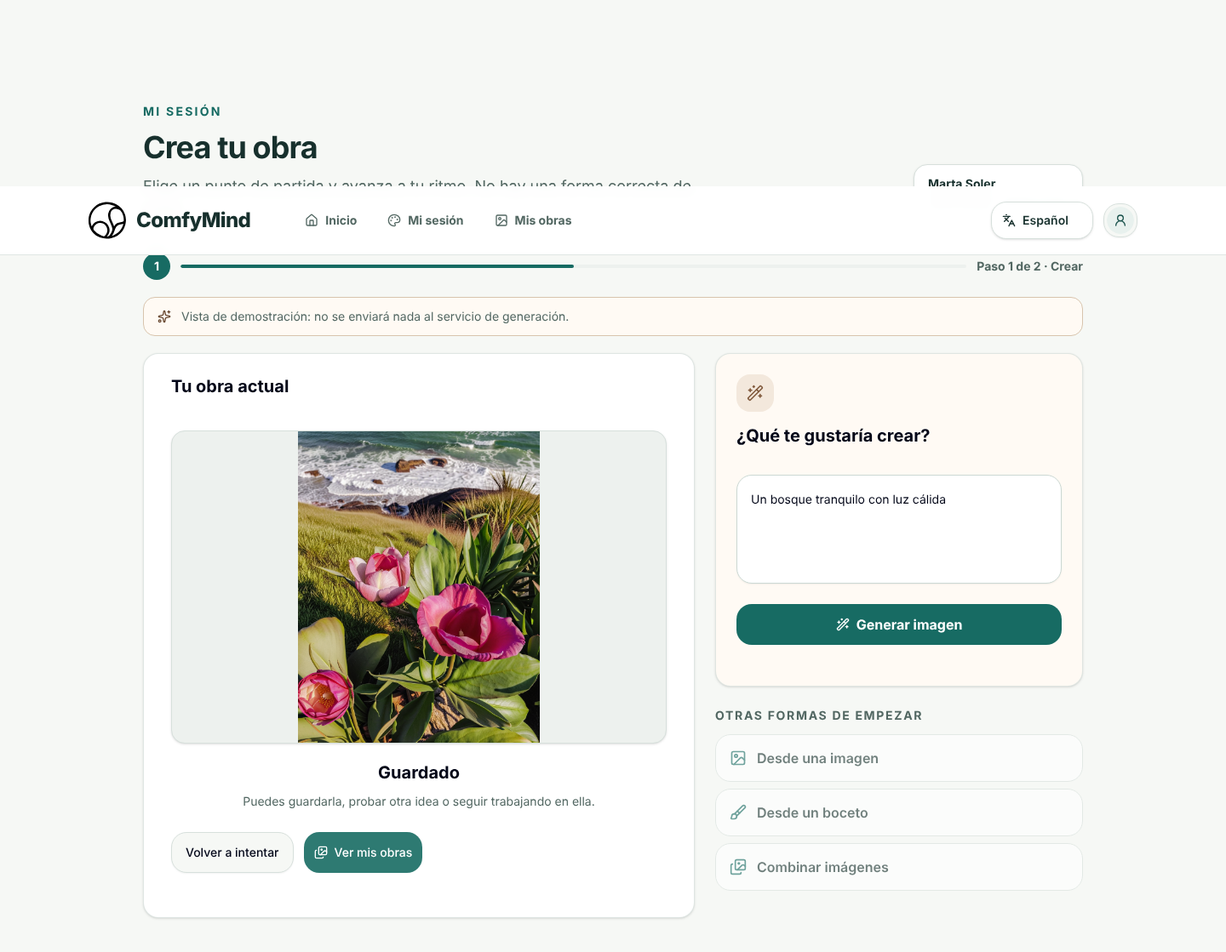
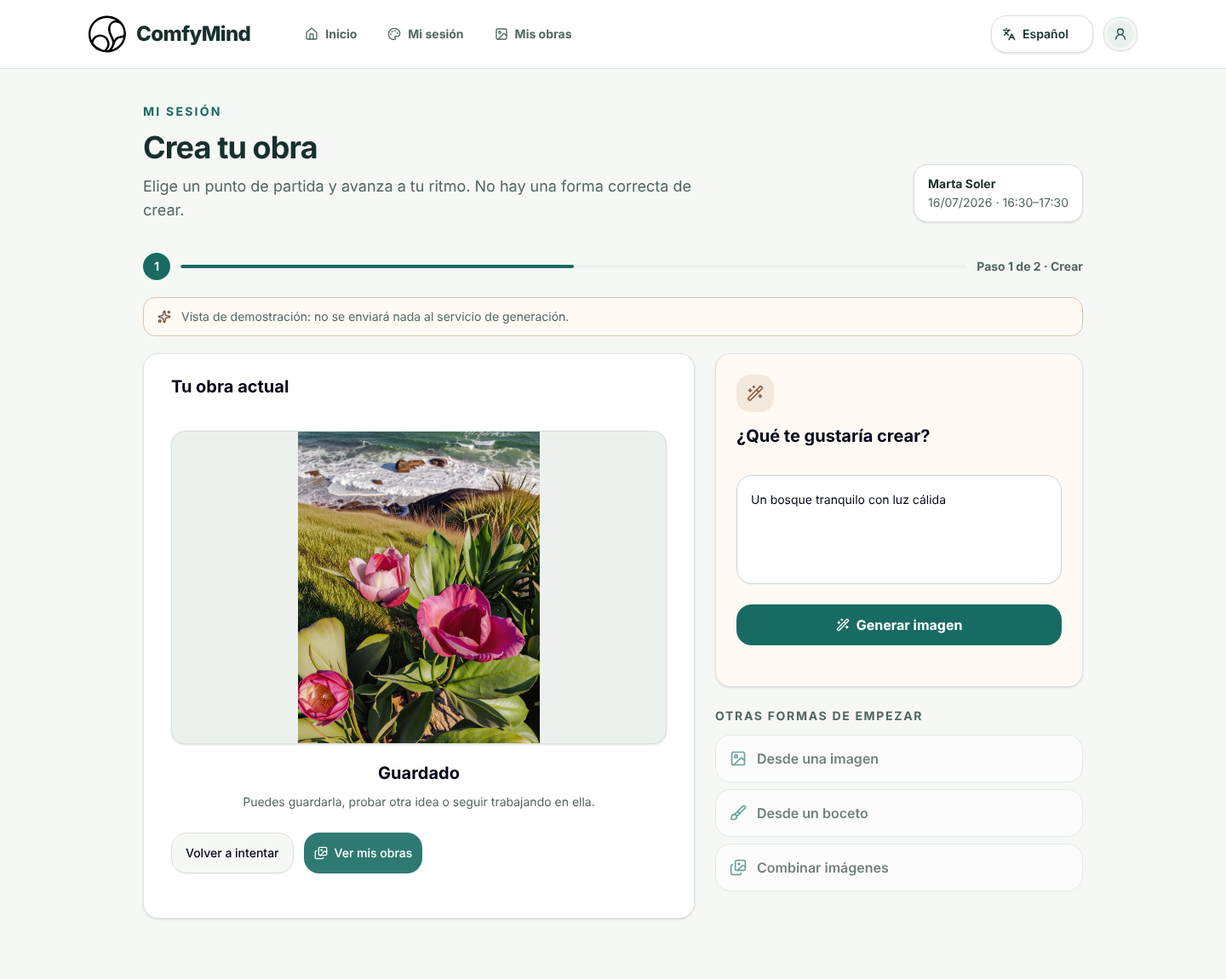
docs: add current UI audit and screenshots (W3)
Claude-Session: https://claude.ai/code/session_01Kk9Ps64XG2jxb5VeaSqfrE

diff --git a/docs/redesign/03_CURRENT_UI_AUDIT.md b/docs/redesign/03_CURRENT_UI_AUDIT.md
@@ -1,0 +1,299 @@
+# 03 - Current UI Audit
+
+Worker W3, 2026-11-24. Scope: every reachable screen of the frontend on the clean base branch, captured without a backend, and critiqued against `AGENTS.md`, `DESIGN_SYSTEM_BRIEF_DRAFT.md`, `ACCESSIBILITY_REQUIREMENTS_DRAFT.md` and `WELCOME_SCREEN_VISUAL_ART_DIRECTION.md`. No source was modified. 63 screenshots (8 MB) live in `screens/current/`.
+
+## 0. How the screens were captured
+
+| Item | Detail |
+|---|---|
+| Server | `VITE_DEV_PREVIEW_MODE=true npx vite --port 5199`, Chromium via Playwright, DPR 1, 1440x900 (D) and 1024x768 (T); a few at 390x844 (M). Locale forced through `localStorage['comfymind.prototype.locale']`. |
+| `?demo=1` | **Works, no mock needed.** `usePrototypeDemo` hard-codes a *patient* ("Alex") + therapist "Marta Soler" in `HomeView`, `Header`, `SessionView`, `ProfileDropdown`, and swaps `GenerationView` for `DemoCreationWorkspace`. It only covers Home, Generation (`/generation/`) and Gallery (`/freeimages/`). Login and Welcome just carry the flag along. Login still enforces email + 8-char password validation. |
+| `VITE_DEV_PREVIEW_MODE` | **Works for all other screens, but the mock identity is always a therapist.** `mockCurrentUser.type = 'therapist'` (id 1001). `getActiveSession()` returns `null`, gallery is `{data: []}`, template images are two non-existent names. Result: therapist screens work; patient routes (`/session/:id/patient`, `/canvas/`) show the "Acceso denegado" dialog (`48-...`). |
+| Harness for the real patient screens | To see the *real* (non-demo) `GenerationView`, `CanvasView`, modals and `SessionView` as a patient, the screenshot script intercepted the Vite-served modules `devPreviewMocks.js`, `sessionsService.js` and `comfyService.js` in the browser (Playwright `route`) and swapped in a patient user, an active session and six template images (served from `src/assets/images/template_images`). Source on disk is untouched. This is a capture aid only; **it shows that today the hosted demo cannot show the patient creation flow with `VITE_DEV_PREVIEW_MODE` alone.** Screens marked (patched) below were captured this way. |
+| Not capturable | Real image generation, WebSocket chat messages, "final view" after "Confirmar la obra creada" (needs a generated image), session-expired global dialog. The refine modal's Generate button does nothing visible in preview (mock returns a filename pointing at the missing backend). |
+
+Notes on the files: PNGs over ~400 KB were converted to `.jpg` (q80), so some links end in `.jpg`. Dark overlays in modal shots are the real Reka/shadcn overlay (`bg-black/50`-style), not a capture artefact.
+
+### Key discovery: the app is two products stitched together
+
+The "current UI" is a hybrid. Four screens (Welcome, Login, Patient Home, `DemoCreationWorkspace`/demo gallery, plus the Header) have already been re-skinned by the earlier prototype pass with the teal/cream tokens, `prototype-*` classes, 11-12 px-radius cards and three-language strings. **Everything behind them is the old app**: Signup, the real `GenerationView` (1578 lines), `CanvasView`, all modals, `CalendarView`, `TherapistGenerationView`, `CreateSessionModal`, `ChatPanel`, and the Spanish-only literals inside them. The two halves differ in palette, type scale, spacing, radii and tone, and the old half is not translated (CA/EN toggle changes only the redesigned screens).
+
+---
+
+## 1. Screen-by-screen
+
+Legend: D = 1440, T = 1024, M = 390. All paths relative to `screens/current/`.
+
+### 1.1 Entry screens
+
+| Screen | Screenshots | Purpose | What works | Problems |
+|---|---|---|---|---|
+| **Landing / Welcome** (`/`, `WelcomeView.vue`) | [D](screens/current/01-landing-es-desktop.jpg) [T](screens/current/01-landing-es-tablet.jpg) [M](screens/current/04-landing-es-mobile.png) [CA](screens/current/02-landing-ca-desktop.jpg) [EN](screens/current/02-landing-en-desktop.jpg) [focus](screens/current/03-landing-focus-desktop.jpg) | Emotional first impression; Begin / Skip to login. | Strongest screen in the app. Dark atmospheric blue-teal/mauve sky, calm tone, one headline, one paragraph, one primary action, warm peach accent; contrast excellent (10.9-14.6:1); good focus ring (`#f2d2bc` 3 px); reduced-motion handled. Follows the art-direction doc. | (a) The "atmospheric sanctuary" is only blurred gradients; at 1440 the right 45% is empty and the mist reads as a smudged grey/blue wash rather than a place, so it feels like a generic "glassmorphism hero". (b) Headline is 76 px bold Inter with `max-width:12ch` - four lines, shouty rather than gentle. (c) Text sits in a dark translucent slab, i.e. the "large card" the art-direction doc says to avoid. (d) Brand is plain text "ComfyMind" - the logo mark is absent. (e) The language selector is a stark white pill, the only light element, fighting the dark scene (70x20 px label; pill 44 px tall). (f) "Saltar" (Skip) is ambiguous: skip what? (g) All CSS is scoped with hard-coded hex values; it uses none of the `style.css` tokens, so the landing cannot be re-themed with the app. |
+| **Login** (`/login`, `LoginView.vue`) | [D](screens/current/05-login-desktop.png) [T](screens/current/05-login-tablet.png) [errors](screens/current/06-login-validation-errors-desktop.png) [EN](screens/current/07-login-en-desktop.png) | Authenticate; link to sign-up. | Clear two-column layout, large 48 px inputs/buttons, labelled fields, show-password toggle, inline validation + summary alert, translated. | (a) **Switches to a pale mint background (`#eef4f1`) with blurred blobs - a completely different world from the dark Welcome one click earlier.** (b) Right-hand card floats with a large soft shadow, left copy repeats the welcome headline and the app name three times (eyebrow, h1, "ComfyMind" chip) while the 96 px black outline logo is the visual centre. (c) The password placeholder is literal dots (`••••••••`), which looks like a pre-filled value; the show-password button is 40x40. (d) Eyebrow "UN ESPACIO CREATIVO Y SEGURO" is 14 px bold tracked caps in teal; fine contrast (5.9:1) but small and shouty. (e) "Crear cuenta" secondary is nearly the same weight as primary on cream (grey fill, 1.26:1 border). (f) No "forgot password" or role hint. |
+| **Signup** (`/signup/`, `SignupView.vue`) | [D](screens/current/08-signup-desktop.jpg) [T](screens/current/08-signup-tablet.jpg) [full](screens/current/09-signup-fullpage-desktop.jpg) [errors](screens/current/10-signup-validation-errors-fullpage-desktop.jpg) | Create patient or therapist account. | Inline per-field errors with colour **and** text; password rules list. | **Worst-offender for cohesion.** Full-bleed saturated acrylic painting (`assets/utils/fondo_login.jpg`, 2.5 MB) behind a translucent card; a *third* brand lockup (logo + "ComfyMind" in **Nunito** 800, inline style); 36 px inputs, 12 px helper text, 16x16 show-password icons, role chosen via a native-looking select that starts unselected; card is cut off at the fold (needs scroll); link colour is default blue (`#2563eb`) not teal; error box is red-100 with `#dc2626`-ish text (3.95:1). A patient with MS signing up gets the busiest screen in the app, with low-contrast helper text over a noisy image. Translated (`signup.*` keys), but the visuals ignore the language of the rest. Sign-up is also exposed as free self-registration of a *therapist* role. |
+
+### 1.2 Patient screens (prototype layer, `?demo=1`)
+
+| Screen | Screenshots | Purpose | What works | Problems |
+|---|---|---|---|---|
+| **Patient home** (`HomeView` patient branch) | [D](screens/current/11-patient-home-demo-desktop.png) [T](screens/current/11-patient-home-demo-tablet.png) [CA](screens/current/19-patient-home-ca-demo-desktop.png) [EN](screens/current/19b-patient-home-en-demo-desktop.png) [real/patched](screens/current/21-patient-home-real-desktop.png) | See next session, enter it, or create freely. | Clear primary card ("Tu sesión está preparada" + one big "Continuar sesión"), personal greeting, low density, three languages. Closest to the brief. | (a) The hero is a large saturated teal slab with a decorative circle - heavy, "SaaS dashboard hero". (b) Second card "Creación libre" in cream with a pale outline button, third a bare link-card: three different card styles on one screen. (c) Hierarchy fine, but the teal block dominates the whole page; there is no reassurance or art. (d) Therapist label/date are 14 px at ~70% opacity white on teal. (e) Only 3 nav items yet "Mis obras" and "Mi sesión" are far apart in meaning. (f) In the real (non-demo) path the date shows in a different format (`24/11/26`) and the therapist name depends on API. |
+| **Creation workspace** (`DemoCreationWorkspace`) | empty [D](screens/current/12-workspace-empty-demo-desktop.png) [T](screens/current/12-workspace-empty-demo-tablet.png) [tall](screens/current/12b-workspace-empty-demo-tall-desktop.png); error [D](screens/current/13-workspace-prompt-error-demo-desktop.png); loading [D](screens/current/14-workspace-loading-demo-desktop.png); result [D](screens/current/15-workspace-result-demo-desktop.png); saved [D](screens/current/16-workspace-saved-demo-desktop.png) | Describe an idea, generate, review, save. | Best flow in the app: one text area, one CTA, explicit empty/loading/result/saved states, "no hay una forma correcta de crear" is excellent reassurance, `aria-live`, progress bar. | (a) A "demo" banner and a progress bar ("Paso 1 de 2") add noise; the progress bar is half-filled in every state. (b) Prompt card is in cream with a *beige* icon tile, result card white with an *aqua* tile: two accent languages. (c) "Otras formas de empezar" options are disabled and at 60% opacity (contrast fails, and promises features that do nothing). (d) Result is a plain framed picture on a grey tile; no sense of ceremony or "this is yours". (e) Image is a flower/coast photo regardless of the prompt (mock). (f) Page content starts ~130 px down; on 1024x768 the generate button sits below the fold. (g) Header hamburger/nav switches responsive but the 40x40 profile button is under 44 px. |
+| **Gallery / My artwork** (`SessionView` demo; real = [empty](screens/current/34-session-artwork-real-empty-desktop.png)) | [D](screens/current/17-gallery-demo-desktop.jpg) [T](screens/current/17-gallery-demo-tablet.jpg) [open](screens/current/18-gallery-artwork-open-demo-desktop.png) | Review saved works. | Calm three-up grid, big thumbnails, captions with date, nicely empty state in the real path ("Todavía no hay obras"). | (a) The stock template images (neon-green aurora, glossy hotel room) are the *only* strong colour in the product and clash with the muted teal; they set a stock-photo tone, not a therapeutic one. (b) Captions are "Obra creada durante la sesión 1/2/3" - no title, no mood, no prompt, no way to name or favourite a work. (c) Card with tiny image icon on the right is purely decorative. (d) Artwork open state is just the same page (no lightbox in the capture). |
+| **Profile menu** | [demo](screens/current/20-profile-dropdown-demo-desktop.png) [real](screens/current/49-profile-dropdown-real-desktop.png) | Account / logout. | Simple. | 40x40 trigger; menu items are default shadcn; no name/role shown prominently. |
+
+### 1.3 Patient screens (old app layer, real `GenerationView`, (patched))
+
+| Screen | Screenshots | Purpose | What works | Problems |
+|---|---|---|---|---|
+| **First-visit instructions dialog** | [D](screens/current/22-generation-instructions-first-visit-desktop.png) | Orient the patient on first entry. | Content is thoughtful and kind ("no hay obras buenas o malas"). | Auto-opens a **7-bullet, ~150-word** dialog before the first action; Spanish only, mixed "tu / vuestra / confiad" register (singular vs plural); 14 px text; tiny 28 px close button. Cognitive-load heavy for a first moment. |
+| **Creation hub** | [D](screens/current/23-generation-main-desktop.png) [T](screens/current/23-generation-main-tablet.png) [full](screens/current/23b-generation-main-fullpage-desktop.png) [chat open](screens/current/29-generation-chat-open-desktop.png) | Choose a method: text, image, sketch, mix; confirm final artwork. | Four options are clearly named and iconised; chat FAB is discoverable. | (a) **Looks like a different app than the demo screen**: grey-blue (`bg-slate-300/30`) panel that stops ~730 px and leaves a cream strip below; title 24 px left-aligned tight under the header; 14 px muted descriptions. (b) Large empty white card (300 px) with a faint icon eats the viewport - the hero is a blank. (c) **The four option cards are `div`s with `cursor-pointer` and `tabindex=-1`: they cannot be reached or activated by keyboard.** (d) Black outline icons, no colour coding, identical weight - no recommended starting point. (e) "Confirmar la obra creada" is a green-600 pill with white text at 50% when disabled (~2:1) - the single most important button is near-invisible until enabled; green is a third green (Tailwind `green-600`, `emerald`, teal primary). (f) Info and Help icon buttons are bare 32-px glyphs in 44-px hit areas with no visible label. (g) Teal chat FAB bottom-right overlaps content and has no label. (h) Spanish only. |
+| **Modal: from text** | [D](screens/current/24-modal-refine-from-text-desktop.png) [generating](screens/current/30-refine-generating-desktop.png) [after](screens/current/31-after-generate-mock-desktop.png) | Prompt + preview. | Two-column prompt/preview is understandable; textarea gets a visible ring. | Title "Genera tu obra a partir de una descripción" is long; description repeats it; textarea is full height of the modal with no examples; "Generar imagen" (disabled grey-teal) and "Confirmar imagen" (disabled green, different green) are **two similar buttons with different colours and a hidden order**; text 14 px; close icon 16 px. |
+| **Modal: from image** | [upload](screens/current/25-modal-images-from-image-desktop.png) [gallery](screens/current/25b-modal-images-gallery-tab-desktop.png) | Upload or pick an image then transform. | Tabs (upload / pick) are logical. | "Paso 1: ..." instruction in 14 px tight leading (line-height ~1), file input is a native-style "Seleccionar archivo / Ningún archivo seleccionado"; selected-tab pill is sub-44 px (≈ 30 px); focus ring is the only feedback. |
+| **Modal: from sketch** | [upload](screens/current/26-modal-draw-from-sketch-desktop.png) [draw tab](screens/current/26b-modal-draw-tab-desktop.png) | Draw/upload/pick a sketch. | Three entry options. | Three tabs + steps + "Confirmar imagen" = a mini wizard inside a modal; modal height jumps between tabs; user must open yet another editor (`CanvasView`) for drawing. |
+| **Modal: image mix** | [grid](screens/current/27a-modal-multiimage-mix-desktop.png) [2 selected](screens/current/27b-modal-multiimage-two-selected-desktop.png) | Select 2-4 images to blend. | Selection is visible (blue ring + check). | Selected state uses **blue** (`#3b82f6`), a fifth colour; the 108-px thumbs are tiny in a 1000-px modal; select by clicking tiny tiles (tremor); 2-4 rule only explained in the subtitle; "Generar imagen combinada" is a small teal button, different from the other modals' buttons; mock gallery empty -> toast "No hay imágenes en tu galería" ([see](screens/current/27a-modal-multiimage-mix-desktop.png) when images exist). |
+| **Session info dialog** | [D](screens/current/28-dialog-session-details-desktop.png) | Therapist/date/time. | Compact. | Plain dl; no relation to the new "session card" in Home. |
+| **Drawing editor** (`CanvasView`) | [D](screens/current/32-canvas-desktop.png) [T](screens/current/32-canvas-tablet.png) [drawn](screens/current/33-canvas-with-drawing-desktop.png) | Free-hand sketch to be turned into an image. | Simple toolset (thickness, draw, erase, undo, clear), large white canvas. | (a) Only monochrome black pen, no colour, no brush variety - for an *art* tool it is spartan. (b) Tool buttons are 36 px tall, the thickness slider is a 4-px track with a 16-px thumb (fine-motor hostile); slider shows "5 px" at 14 px. (c) "Confirmar boceto" is a pale disabled green. (d) The 600x600 canvas is not centred relative to the toolbar and sits in an unused grey-blue page (`bg-slate-200/..`). (e) No pointer-friendly alternative for people who cannot drag a line (upload exists elsewhere). (f) Page title 24 px / sub 14 px - same dense pattern as the hub. |
+
+### 1.4 Therapist screens (`VITE_DEV_PREVIEW_MODE`)
+
+| Screen | Screenshots | Purpose | What works | Problems |
+|---|---|---|---|---|
+| **Therapist home** | [no session](screens/current/40-therapist-home-no-session-desktop.png) [T](screens/current/40b-therapist-home-tablet.png) [active](screens/current/42-therapist-home-active-session-desktop.png) | Add a session or enter the active one. | Reasonable minimum. | **A 575 px card floating in an empty 900 px page** with the heading "Inicio", one sentence, one button. No agenda, no patients, no today's sessions - the brief's "today's sessions / calendar / patients" is absent. Titles/labels not translated; nav items "Calendario" hard-coded Spanish and uses an *image* icon for calendar. |
+| **Create session modal** | [D](screens/current/41-therapist-create-session-modal-desktop.png) | Pick patient, date, start/end. | Native pickers. | Browser-default `--:-- --` time inputs, 36-px controls, date popover; confirm is small and right-aligned; no summary of what will be created. |
+| **Calendar** | [D](screens/current/43-calendar-desktop.png) [T](screens/current/43-calendar-tablet.png) [session dialog](screens/current/44-calendar-session-dialog-desktop.png) [create](screens/current/45-calendar-create-session-desktop.png) | Therapist schedules and opens sessions. | FullCalendar gives a full month grid. | **Third visual language**: emerald nav buttons (`#059669`), full-width (no max-width, 40 px margins vs 104 px header), lime event chip `#48d421` with dark bold text, light-yellow "today" cell `#fffcd5`, sky-blue event dot, `#6366f1` indigo for some states; 16-px page title; weekday headers 36 px; prev/next icon buttons 55x44 joined. Event text truncated ("Preview Patien"). Colour alone separates today/selected/past. |
+| **Therapist live-session view** | [D](screens/current/46-therapist-session-desktop.png) [T](screens/current/46-therapist-session-tablet.png) [end-confirm](screens/current/47-therapist-end-session-confirm-desktop.png) | Watch patient's work, chat, end session. | Chat + image side by side is the right model; confirmation before ending. | **Fourth look**: pale-blue chat panel with sky-blue header and blue send button, **saturated red "Finalizar sesión" pill**, light grey-blue page ending at ~800 px; the confirmation dialog's confirm button is **teal, not destructive** while the trigger is red - inconsistent destructive pattern; chat empty state is a blank blue box; 14-px text; info icon is a bare glyph. |
+| **Access denied** | [D](screens/current/48-access-denied-error-state-desktop.png) | Role/ownership error. | Does stop the user. | Opens over a fully rendered patient page (content visible but dimmed), message "No tienes acceso a este contenido" with a single "Volver al inicio" - correct but cold; Spanish only. |
+
+---
+
+## 2. Landing vs. app cohesion
+
+**Verdict: the Welcome screen is a design island.** Walking `/` -> `/login` -> `/home/` -> `/generation/` the user meets three palettes, three type voices and three background treatments, and `/signup/` and the old therapist/canvas screens add two more.
+
+| Aspect | Welcome (`WelcomeView.vue`, scoped CSS) | Login / Patient layer (`style.css` tokens + `prototype-*`) | Old app (slate/green/blue utilities, FullCalendar CSS) |
+|---|---|---|---|
+| Background | 4-stop dark gradient `#101827 -> #172d3a -> #413f59` + radial teal/mauve/peach + 3 blurred "mist" layers; no image files | `#eef4f1` (login) / `--background #f6f8f5` flat, two `blur-3xl` blobs (`#cfe4de`, `#f1dfca`) | `bg-slate-300/30` panels, `bg-slate-200`, white cards; Signup: `assets/utils/fondo_login.jpg` full-bleed painting |
+| Colour logic | Dark, peach (`#f2d2bc`/`#f2e5dc`) accent, near-white text | Light, teal primary `#176b63`, cream `#fffaf4/#f3e8dc` secondary | Tailwind `green-600/700`, `emerald-600/700`, `blue-500/600`, `sky-500`, `red-600`, `indigo-500`, lime `#48d421` |
+| Type | Inter 750-800, huge clamp up to 76 px, tracking +0.08em brand | Inter 700, 30-48 px h1, tracked caps eyebrow 14 px | Inter 600, 24 px titles, 14 px body; Signup logo in **Nunito** (`index.html` loads only Nunito) |
+| Shapes | Radius 20-32 px glass slab, 999 px pill-ish buttons (≈ 48 px tall) | `--radius 0.875rem` -> cards 12-16 px, inputs 12 px, buttons mixed pill and `rounded-xl` | `rounded-md/lg/xl`, `rounded-full` red/green CTAs |
+| Imagery | None; logo not shown | Black line-art logo mark (`public/logo_comfymind.svg`) 96/44 px; template photos in gallery | Painting JPG in Signup; template photos; icon glyphs |
+| Language | 3 languages | 3 languages | Mostly Spanish literals |
+
+Concrete CSS/assets involved:
+
+* **`src/views/WelcomeView.vue` `<style scoped>`**: hard-coded hex everywhere (`#f7f7fa`, `#172d3a`, `#f2d2bc`, `rgba(231,205,186,.3)`, ...). It does not read `--background`/`--primary`. It restyles `.language-selector` (defined in `style.css`) via `:deep()` to a white pill.
+* **`src/style.css` `:root` tokens** only describe the light teal theme; the `.dark` block is the stock shadcn slate oklch set (`oklch(0.129 0.042 264.695)` etc.) and was never retuned - it does not match the Welcome's dark atmosphere and is not reachable from the UI. The sidebar and chart tokens are also stock slate.
+* **`public/wave-haikei.svg`, `public/stacked-waves-haikei.svg`**: unreferenced in `src/` (leftover from the old landing).
+* **`src/assets/utils/fondo_app.jpg` (3.0 MB), `fondo_login.jpg` (2.6 MB), `header_app.png`, `logo.png`**: only `fondo_login.jpg` is still used (Signup). `fondo_app.jpg` and `logo.png` are dead weight; `logo_comfymind_border.svg` is not referenced either. The old app was built on a painted-canvas aesthetic that the redesign dropped but never replaced.
+* **`index.html`**: `<title>frontend</title>`, `<html lang="en">` (app is ES/CA), `vite.svg` favicon, loads Nunito from Google Fonts but **not Inter**. `style.css` names `Inter` first in `font-family`, so on a machine without Inter installed the UI falls back to `system-ui`; the captured screenshots were rendered with a locally installed Inter, so a real user's rendering will differ.
+* **`App.vue`**: `class="font-sans text-gray-900"` on `#app` and a long commented-out legacy gradient block.
+* **`CalendarView.vue` scoped `--fc-*` variables** (`#059669`, `#0ea5e9`, `#48d421`, `#fffcd5`, `#6366f1`, `#f1f5f9`).
+
+What should be shared: the Welcome's sense of depth and warmth (peach `#f2d2bc`, desaturated teal `#356771`, twilight mauve `#756c8d`) is not present anywhere inside the app; the app's teal is a different, more clinical green-teal (`#176b63`). There is no bridge colour (login should be able to inherit a dusk/mist surface), and the logo mark appears everywhere *except* the landing.
+
+---
+
+## 3. Accessibility quick check
+
+Measured by DOM audit on the captured pages (visible interactive elements below 44 px on the shortest side, rendered font sizes) and by computing WCAG ratios from the CSS values. This is a quick check, not a formal audit.
+
+### 3.1 Target size
+
+| Screen | Interactive elements < 44 px | Examples |
+|---|---|---|
+| Header (all app screens) | 2 | Profile button 40x40, language `<select>` label 70x20 (container 44 high) |
+| Login | 2 | Show-password 40x40 |
+| Signup | **10** | Inputs and submit 36 px tall, show-password icons 16x16, role select |
+| Patient demo home / workspace | 2 | Header only (good: page controls 44-48 px) |
+| Real creation hub | 3 | "Confirmar la obra creada" 40 px, header |
+| Canvas editor | **8** | Draw/Erase 36 px, Undo/Clear/Confirm 36 px, slider thumb 16x16 |
+| Calendar | **56** | Day-name headers 36, day cells links 36x40, "Crear nueva sesión" 42, Hoy 42 |
+| Therapist live view | 5 | Send 36x36, "Finalizar sesión" 40 high, text input 36 |
+
+The redesigned layer mostly honours 44-48 px (`h-12`, `min-h-11`); the old layer defaults to shadcn's `Button` `h-9` (36 px) and `size-9` icons (`components/ui/button/index.ts`: default 36, sm 32, lg 40, icon-lg 40). **There is no token or default that enforces a minimum target**; every view re-applies `h-12 rounded-xl` by hand.
+
+MS-specific: tremor and dexterity make 36 px controls, 16 px slider thumbs, tight tab pills in modals and image tiles 108 px square (multi-select) the riskiest spots. Spacing between adjacent small controls (Undo / Clear / Confirm, 8 px apart) invites accidental activation, and **Clear canvas is not confirmed**.
+
+### 3.2 Text size
+
+| Observed font size (visible text characters) | Where |
+|---|---|
+| 12 px (≈109 chars) | Signup helper text and password rules |
+| 13.6-14.4 px | Calendar, many labels |
+| 14 px (dominant: 382 chars on the creation hub, 202 on the demo workspace, 146 on canvas) | Card descriptions, modal body, form labels |
+| 16 px | Prototype body |
+| 18-20 px | Leads and card titles |
+
+`ACCESSIBILITY_REQUIREMENTS_DRAFT.md` asks for a "comfortable base text size". The base is 16 px in the prototype layer and **14 px in the old layer**, and all captions drop to 12-14 px. There is no text-size control (deferred in the draft, but worth planning: use `rem` everywhere so browser zoom/user font size works; `html` has no explicit size).
+
+### 3.3 Contrast (computed from real CSS values)
+
+| Pair | Ratio | Verdict |
+|---|---|---|
+| `--foreground #17302d` on `--background #f6f8f5` | **13.1:1** | AAA |
+| `--muted-foreground #526762` on `#f6f8f5` / white / `#edf1ee` | 5.7 / 6.0 / 5.3 | AA (AAA fails; borderline for low vision) |
+| White on `--primary #176b63` (primary button) | **6.3:1** | AA |
+| `--primary` text (eyebrows) on background | 5.9:1 | AA |
+| `--secondary-foreground #164f49` on `#e8f1ee` | 8.1:1 | AAA |
+| `--accent-foreground #714b31` on `#f3e8dc`; `#68472f` on `#fffaf4` | 6.3 / 8.0 | AA/AAA |
+| Welcome: `#f7f7fa` on `#17243a`; `#f2d2bc` on `#17243a`; `#e7e7ed` on `#172d3a` | 14.6 / 10.9 / 11.6 | AAA |
+| Welcome primary button `#17243a`-ish text on `#f3e8dc` | 12.9 | AAA |
+| **Borders** `--border #d7e0dc` on bg; `--input #cbd8d3` on white | **1.26 / 1.47:1** | Fails the 3:1 non-text contrast (WCAG 1.4.11) - card and input outlines are almost invisible; cards rely on shadow |
+| Focus ring `--ring #21857b` on bg / white | **4.2 / 4.5:1** | Passes 3:1, 3 px + 3 px offset: good (`:focus-visible` in `style.css`, Welcome has its own peach ring) |
+| White on Tailwind `green-600` (`#16a34a`, old "confirm" buttons) | **3.3:1** | Fails AA for 14-18 px text |
+| Disabled "Confirmar imagen" (green at 50% opacity, white text) | ≈ **2:1** | Exempt as disabled, but it is the primary CTA of every modal and is unreadable |
+| Calendar event `#f8fafc` on `#0ea5e9` | **2.65:1** | Fails |
+| Calendar nav `#f8fafc` on `#059669` | 3.6:1 | Fails for 14 px |
+| Signup error text `#dc2626` on `#fee2e2` | 3.95:1 | Fails AA for small text |
+| Link blue `#2563eb` on white | 5.2:1 | Passes |
+| White on red `#e60000` ("Finalizar sesión") | 4.8:1 | Passes narrowly |
+| Disabled "Otras formas de empezar" rows (60% opacity) | ≈ 2.3:1 | Reads as muted, but looks like active content |
+
+### 3.4 Focus visibility and keyboard
+
+* A global `:focus-visible` ring (3 px `--ring` + 3 px offset) exists in `style.css`; modals show good rings ([modal](screens/current/24-modal-refine-from-text-desktop.png)). 
+* **The four creation-method cards in the real hub are click-only `div`s (tabindex -1)**; Tab traverses header, icons and the confirm button but never reaches them ([focus test](screens/current/50-focus-ring-generation-desktop.png)). A keyboard-only or switch-access patient cannot start creating. Same pattern likely in the old modals' thumbnail tiles (they are `img` click targets in `MultiImageModal`/`GalleryDialog`).
+* Canvas drawing is pointer-only; there is no keyboard route (acceptable for freehand, but the "upload a sketch" fallback is buried in a modal 2 levels away).
+* Language `<select>` is a native element with `outline: none` on the select and the ring moved to the wrapper (`:focus-within` on Welcome) - works, but custom per-screen.
+* `<html lang="en">` in `index.html`; the language is not reflected in `lang` when ES/CA is chosen -> screen readers mispronounce.
+
+### 3.5 Motion and colour reliance
+
+* `prefers-reduced-motion` is globally honoured in `style.css`; Welcome additionally checks `matchMedia` and a narrow-viewport media query. Pointer parallax is only 6-18 px. Good. Spinners (`animate-spin`) remain, which is fine.
+* Colour-only cues: calendar "today" (pale yellow), selected (indigo), past (grey), event state (lime vs sky) are distinguished by hue; multi-select uses a blue ring **plus** a check (good); validation errors use red **plus** text (good); the demo "stepper" colour fill has a text label. "Finalizar sesión" red/destructive vs teal confirm is a colour convention only.
+* Toasts (`vue-sonner`, `top-right`, `rich-colors`) auto-dismiss and are blue/green/red tinted - the draft says "avoid automatic dismissal of important messages"; the "No hay imágenes en tu galería" toast is an example of important info that disappears.
+
+### 3.5b Other findings against the draft
+
+| Draft requirement | Status |
+|---|---|
+| Back / cancel / close easy to find | Modals have a 16-px "x" only; no visible "Cancelar" in the creation modals. Canvas has no back button besides the header nav. |
+| Plain direct language, short labels | Prototype layer yes; old layer has long titles ("Genera tu obra a partir de una imagen de entrada"). Instructions dialog mixes register. |
+| Do not remove entered info after validation error | Login/signup keep input (good). |
+| Ask confirmation before destructive actions | "Finalizar sesión" yes; "Limpiar lienzo" no; deleting a session in calendar uses destructive button. |
+| Session state / unsaved work visible | No autosave indicator or "saved" chip in the old creation flow; demo has "Guardado". |
+| Avoid time pressure | The session-end timer silently closes all modals and shows "Sesión finalizada" with no countdown or warning. |
+| Reassuring neutral language | Good in prototype copy; errors in old flow are raw ("Error cargando galería: ..." toast with backend detail). |
+| Language selector visible | Visible on every page, but translations stop at the prototype layer. |
+
+---
+
+## 4. Usability
+
+### 4.1 Core patient task: "create an image in a session"
+
+Real flow (patched mock; counts actions a patient performs from first load):
+
+| # | Action | Screen |
+|---|---|---|
+| 1 | Click "Empezar" | Welcome |
+| 2 | Type e-mail | Login |
+| 3 | Type password | Login |
+| 4 | Click "Iniciar sesión" | Login |
+| 5 | Click "Continuar sesión" / "Acceder a la sesión" | Home |
+| 6 | Close the auto-opened 7-bullet instructions dialog (first visit only) | Creation hub |
+| 7 | Click "Desde texto" (card is mouse-only) | Creation hub |
+| 8 | Type the description | Modal |
+| 9 | Click "Generar imagen" (wait for ComfyUI, tens of seconds) | Modal |
+| 10 | Click "Confirmar imagen" | Modal |
+| 11 | Click "Confirmar la obra creada" | Creation hub |
+
+**11 actions / 5 screens-or-states (incl. 1 modal), 9 if already logged in and the instructions were seen.** Sketch route adds: open editor (new page), draw, "Confirmar boceto", back, optional description, generate, confirm = **~14**. Image-mix adds selecting 2-4 tiles.
+
+Prototype (`?demo=1`) flow: Empezar, e-mail, password, Iniciar, Continuar sesión, type, Generar, Guardar = **8 actions** - a better target (login is the fat: 4 of 8). For a fatigued patient the ideal is ≤ 4 from Home: Continue session -> type -> Generate -> Save.
+
+### 4.2 Points of confusion
+
+1. **Two confirmations** ("Confirmar imagen" in the modal and "Confirmar la obra creada" in the hub) with unclear difference; the latter probably ends the artwork for the therapist ("send to therapist"), but the label does not say so.
+2. Three separate stages of *generate* inside modals (Generar imagen / Generar imagen combinada / Confirmar) with different button colours.
+3. Creation hub empty state says "Empieza seleccionando una opción abajo" while the options are below the fold on 1024x768 and look like content cards, not buttons.
+4. "Mi sesión" vs "Mis obras" vs "Inicio": three nav items for a patient who has a single task. In the real app "Mi sesión" opens `/generation` (not the session) and "Mis obras" opens `/freeimages` (free works, not the session's works).
+5. Demo banner "Vista de demostración..." + hard-coded date 16/07/2026 (in the past) and "Marta Soler" are visible in the prototype - confuses stakeholders about what is real.
+6. "Saltar" on Welcome and "Creación libre" on Home imply a path outside a session that the old app barely supports.
+7. No indication of how much session time is left; session end is abrupt.
+8. Therapist role: after login the therapist sees the same "Inicio" with no list of patients or today's sessions; they must discover the Calendar. The therapist cannot see *which patient* is working until opening the live view.
+9. Role is chosen once in Signup via a select defaulting to nothing; a patient can register as therapist.
+10. Preview-mode specific: `VITE_DEV_PREVIEW_MODE` yields a therapist who is denied the patient screens; `?demo=1` yields a patient who sees no therapist screens. Neither mechanism is a role switcher, and neither covers Canvas, the modals or Calendar as a patient/therapist pair. (Relevant to hosted-demo planning, decision D3.)
+
+---
+
+## 5. Current design tokens
+
+### 5.1 `frontend/src/style.css` (Tailwind v4 `@theme inline`; there is **no** `tailwind.config.*`; `components.json`: shadcn-vue `new-york`, baseColor `slate`, cssVariables, Lucide)
+
+Light (`:root`):
+
+| Token | Value | Notes |
+|---|---|---|
+| `--radius` | `0.875rem` (14 px) | `sm = r-4`, `md = r-2`, `lg = r`, `xl = r+4` -> 10 / 12 / 14 / 18 px |
+| `--background` | `#f6f8f5` | warm-grey green off-white |
+| `--foreground` | `#17302d` | deep green-black |
+| `--card`, `--popover` | `oklch(1 0 0)` | pure white |
+| `--card-foreground`, `--popover-foreground` | `oklch(0.129 0.042 264.695)` | **stock slate navy, inconsistent with `--foreground`** |
+| `--primary` / `-foreground` | `#176b63` / `#ffffff` | teal |
+| `--secondary` / `-foreground` | `#e8f1ee` / `#164f49` | |
+| `--muted` / `-foreground` | `#edf1ee` / `#526762` | |
+| `--accent` / `-foreground` | `#f3e8dc` / `#714b31` | warm cream / brown |
+| `--destructive` | `oklch(0.577 0.245 27.325)` | stock red (~`#e7000b`) |
+| `--border`, `--input` | `#d7e0dc`, `#cbd8d3` | 1.3-1.5:1 |
+| `--ring` | `#21857b` | |
+| `--chart-1..5` | stock shadcn oklch | unused |
+| `--sidebar*` | `#fbfcfa`, `#17302d` + stock slate oklch for primary/accent/border/ring | unused |
+
+Dark (`.dark`): complete stock shadcn slate palette (`oklch(0.129 0.042 264.695)` background, `oklch(0.208 ...)` card, ...). Not themed for the app and no switch exists.
+
+Base layer: `* { border-border outline-ring/50 }`, `body { bg-background text-foreground antialiased; min-width: 320px; font-family: Inter, ui-sans-serif, system-ui, ... }`, `:focus-visible { outline: 3px solid var(--ring); outline-offset: 3px }`, `scroll-margin: 1rem` on controls.
+
+Component classes: `.prototype-page` (`max-w-6xl px-4/6 py-8/10`), `.prototype-eyebrow` (14 px bold uppercase tracking 0.16em primary), `.prototype-title` (30/36 px bold), `.prototype-lead` (16/18 px, leading 7, muted), `.language-selector` (min-h 44, rounded-xl, border, white, shadow-sm).
+
+`prefers-reduced-motion` global reset (0.01 ms animations). `tw-animate-css` imported. No spacing, shadow, z-index, motion or type-scale tokens; no semantic status colours (success, warning, info) - the old views use raw Tailwind greens/blues/reds instead.
+
+### 5.2 Fonts
+
+* Declared stack `Inter, ui-sans-serif, system-ui, -apple-system, BlinkMacSystemFont, "Segoe UI", sans-serif`; **Inter is not loaded** (no `@font-face`, no `<link>`, no `@fontsource` dependency).
+* `index.html` loads **Nunito** (Google Fonts, variable 200-1000), which is only used by an inline style on the Signup wordmark.
+* Observed sizes: 12, 13.6, 14, 16, 18, 20, 24, 30, 36, 48, 76 px; weights 500-800 (Welcome uses 750 and 800).
+
+### 5.3 Hard-coded colours outside the tokens
+
+| Where | Values |
+|---|---|
+| Login | `#eef4f1`, `#cfe4de`, `#f1dfca`, `#17302d`, `#526762`, `#315b55` |
+| Home / workspace | `#fffaf4`, `#f3e8dc`, `#825b3e`, `#d8c4ad`, `#68472f` |
+| Welcome | ~25 hex/rgba values (see §2) |
+| Old views | Tailwind `green-600/700`, `emerald-600/700`, `blue-50/100/500/600`, `red-100`, `slate-300/30`, `gray-100/200`, `text-slate-600/900` |
+| Calendar | `--fc-*` plus `#48d421`, `#fffcd5`, `#6366f1`, `#0ea5e9`, `#059669` |
+| Signup | inline `rgb(17, 24, 39)`, Nunito, `bg-white/95` over JPG |
+
+### 5.4 UI primitives (`src/components/ui`, shadcn-vue + Reka UI)
+
+`button` (variants default/destructive/outline/secondary/ghost/link; sizes default 36, sm 32, lg 40, icon 36, icon-sm 32, icon-lg 40 px; base `rounded-md text-sm font-medium`), `input`, `textarea`, `select`, `native-select`, `dialog`/`alert-dialog`/`sheet`, `card`, `tabs`, `calendar`, `popover`, `command`, `carousel`, `sidebar`, `slider`, `skeleton`, `spinner`, `sonner`, `tooltip`, `avatar`, `breadcrumb`, `alert`, `label`, `separator`, `dropdown-menu`. Views override sizes/radii per call-site (`h-12 rounded-xl px-6`) instead of defining a patient-size button variant.
+
+---
+
+## 6. Top 10 issues (ranked)
+
+| # | Issue | Why it matters (evidence) | Redesign recommendation |
+|---|---|---|---|
+| 1 | **Landing and app are different products** (dark atmosphere -> pale mint -> teal slab -> grey-blue/green/red old screens; five palettes, three type voices) | §2; compare [01](screens/current/01-landing-es-desktop.jpg), [05](screens/current/05-login-desktop.png), [23](screens/current/23-generation-main-desktop.png), [43](screens/current/43-calendar-desktop.png), [08](screens/current/08-signup-desktop.jpg) | Define one token set (dusk-teal/mist/peach family from Welcome) in `style.css`, re-point Welcome and all views to it, and drive the same atmospheric background through login, home and workspace with calmer, lighter variants. |
+| 2 | **The core creation flow is the old, inaccessible UI**: mouse-only method cards, 14-px text, modal-in-modal wizard, two "confirm" buttons with disabled ≈2:1 green, Spanish-only | [23](screens/current/23-generation-main-desktop.png), [24](screens/current/24-modal-refine-from-text-desktop.png), [26](screens/current/26-modal-draw-from-sketch-desktop.png), §3.4 | Rebuild the hub on the `DemoCreationWorkspace` pattern: one prompt + one generate CTA, method choices as real buttons (large, keyboard-operable), a single result/save step; migrate strings to the locale dictionary. |
+| 3 | **Touch targets and text below the brief** (36-px buttons, 16-px slider thumb, 12-14 px text, 56 sub-44 controls on Calendar) - hostile to tremor and low vision | §3.1-3.2 | Set a minimum 48-px control height and 18-px base text as tokens/variants (patient `lg` button, bigger slider, 56-px thumbs); use `rem` everywhere so zoom works; keep 44 as hard floor for therapist screens. |
+| 4 | **Low-contrast structure**: borders 1.3-1.5:1, off-brand status colours (white on `green-600` 3.3:1, calendar chips 2.65:1, red-on-pink errors 3.95:1), disabled CTA unreadable | §3.3 | Darker border/input tokens (>= 3:1), define success/warning/error/info tokens at AA, never fade the primary CTA - show enabled-but-explained or "describe your idea first" helper instead of 50% opacity. |
+| 5 | **Therapist side has no design**: floating "Inicio" card, FullCalendar in lime/emerald/yellow, blue chat panel, red pill | [40](screens/current/40-therapist-home-no-session-desktop.png), [43](screens/current/43-calendar-desktop.png), [46](screens/current/46-therapist-session-desktop.png) | A dense-but-calm therapist home (today's sessions, patients, recent artwork) in the same tokens; restyle the calendar through `--fc-*` mapped to the tokens; chat as a neutral side panel; destructive pattern consistent (red trigger = red confirm). |
+| 6 | **Signup is the noisiest, smallest-text screen** (saturated painting background, Nunito wordmark, 36-px fields, 12-px rules) and arrives right after the calmest one | [08](screens/current/08-signup-desktop.jpg), [10](screens/current/10-signup-validation-errors-fullpage-desktop.jpg) | Reuse Login layout/tokens; one field group per step or at least large fields; plain role chooser as two large cards; drop `fondo_login.jpg` or reserve it as a decorative, low-contrast art accent. |
+| 7 | **Generic "SaaS template" feel**: stock shadcn cards/buttons/icons (Lucide black outlines), big teal hero slab, white cards on off-white, stock chart/sidebar/dark tokens, neon stock photos in the gallery | [11](screens/current/11-patient-home-demo-desktop.png), [17](screens/current/17-gallery-demo-desktop.jpg), §5 | Give the product an art-therapy identity: tonal surfaces with depth from the Welcome palette, a distinctive display + text pairing, softer organic shapes (consistent radius scale), curated calm illustrations/placeholder artwork, and the logo mark used as a motif. |
+| 8 | **Welcome page**: beautiful intent, but headline too large/shouty, content in a dark slab, empty right half, logo missing, ad-hoc white language pill, hex-only CSS | [01](screens/current/01-landing-es-desktop.jpg) | Keep atmosphere and contrast; tone headline to ~48-56 px with softer weight, add logo mark and a hint of artwork or layered mist on the empty side, make the language control match the dark scene, move styles to tokens. |
+| 9 | **Too many steps and ambiguous nouns for a fatigued user**: 11 actions to first image; two confirms; "Mi sesión / Mis obras / Creación libre"; unannounced session end; instructions dialog before first task | §4 | Target <= 4 actions from Home; one persistent "Continue session" path; clearly named final step ("Send to Marta"); optional, collapsible 3-line guidance instead of an auto dialog; visible session timer with a gentle 5-minute notice. |
+| 10 | **Infrastructure/identity hygiene** undermining trust: `<title>frontend`, `lang="en"`, Vite favicon, Inter not loaded, Nunito loaded but only for one wordmark, 5.6 MB of unused JPGs and waves SVGs, CA/EN toggle translating only half the app, demo-mode banner and past dates, preview mocks that cannot show a patient | §2, §0 | Load one self-hosted variable font (with Catalan glyph check), set `lang` from locale, real title/favicon, delete dead assets, complete the translation dictionary, and unify the two demo mechanisms into one role-switchable mock (patient / therapist) usable by the hosted static build. |
+
+### Quick wins (<= 1 day each)
+
+* Add `min-h-12` patient button variant and apply to all primary actions.
+* Make the four method cards `<button>` elements.
+* Darken `--border` / `--input` to >= 3:1 and replace `green-600` and calendar chip colours with the tokens.
+* Fix `index.html` (`lang`, title, favicon, font links).
+* Remove `fondo_app.jpg`, `logo.png`, `header_app.png`, `wave-haikei.svg`, `stacked-waves-haikei.svg`, `logo_comfymind_border.svg` after confirming no references.
+
+### Strengths to keep
+
+The Welcome copy and calm structure; the patient greeting card and its hierarchy; the demo workspace's empty/loading/result/saved states with `aria-live`; the global focus ring and reduced-motion handling; 44-48 px primary controls and `min-h-11` language selector in the redesigned layer; the three-language dictionary approach (`usePrototypeLocale`) and the terminology table in `UI_TERMINOLOGY_ES_CA_EN_DRAFT.md`; the reassuring "no hay una forma correcta de crear" tone, which is the emotional core the visual design should serve.

diff --git a/docs/redesign/PLAN.md b/docs/redesign/PLAN.md
@@ -72,7 +72,7 @@ the stakeholder meeting.
 |----|--------|-------|
 | W1 | done | Inventory in 01_APP_INVENTORY.md; neither demo mode is complete; txt2img workflow JSON is corrupt on this branch |
 | W2 | done | Wrote `02_PROJECT_HISTORY.md`: origin, epic timeline e0–e8, fork redesign branches, docs list, hygiene findings (tracked node_modules/.pyc, .env/.db in e0007e2 history, duplicate welcome sha), glossary. |
-| W3 | pending | |
+| W3 | done | `03_CURRENT_UI_AUDIT.md` + 63 screenshots in `screens/current/`. Demo: `?demo=1` = patient (home/workspace/gallery only); dev-preview = therapist only. |
 | W4 | done | 04_DESIGN_RESEARCH.md: 3 directions (Atmospheric Sanctuary / Paper Studio / Gallery Wall); w3.org fetch blocked, some links unverified |
 | I1 | pending | |
 | V1 | pending | |
@@ -88,3 +88,4 @@ the stakeholder meeting.
 - 2026-11-24 — W2: project history written to `docs/redesign/02_PROJECT_HISTORY.md`. Status done.
 - 2026-11-24 — W4: design research written to `docs/redesign/04_DESIGN_RESEARCH.md`. Status done.
 - 2026-11-24 — W1: app inventory written to `docs/redesign/01_APP_INVENTORY.md` (roles, flows, routes, API/WS/data model, workflows, both demo modes, i18n, tech debt, open questions). Status done.
+- 2026-11-24 — W3: current UI audit written to `docs/redesign/03_CURRENT_UI_AUDIT.md`, 63 screenshots in `screens/current/`. Status done.
